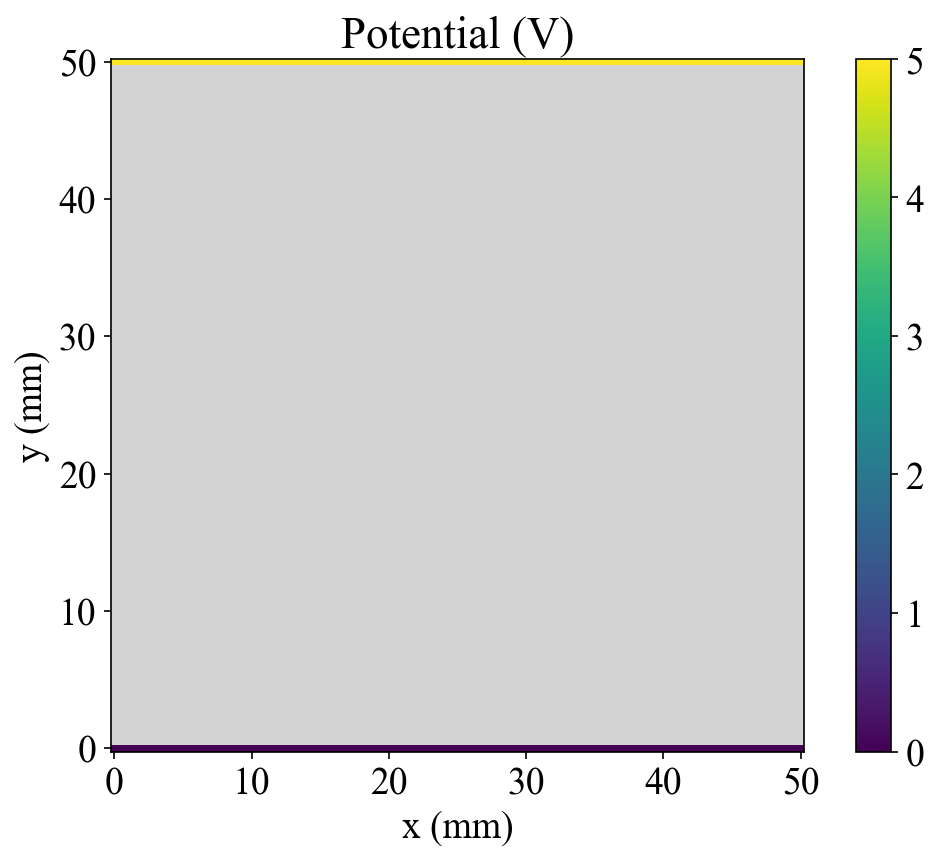
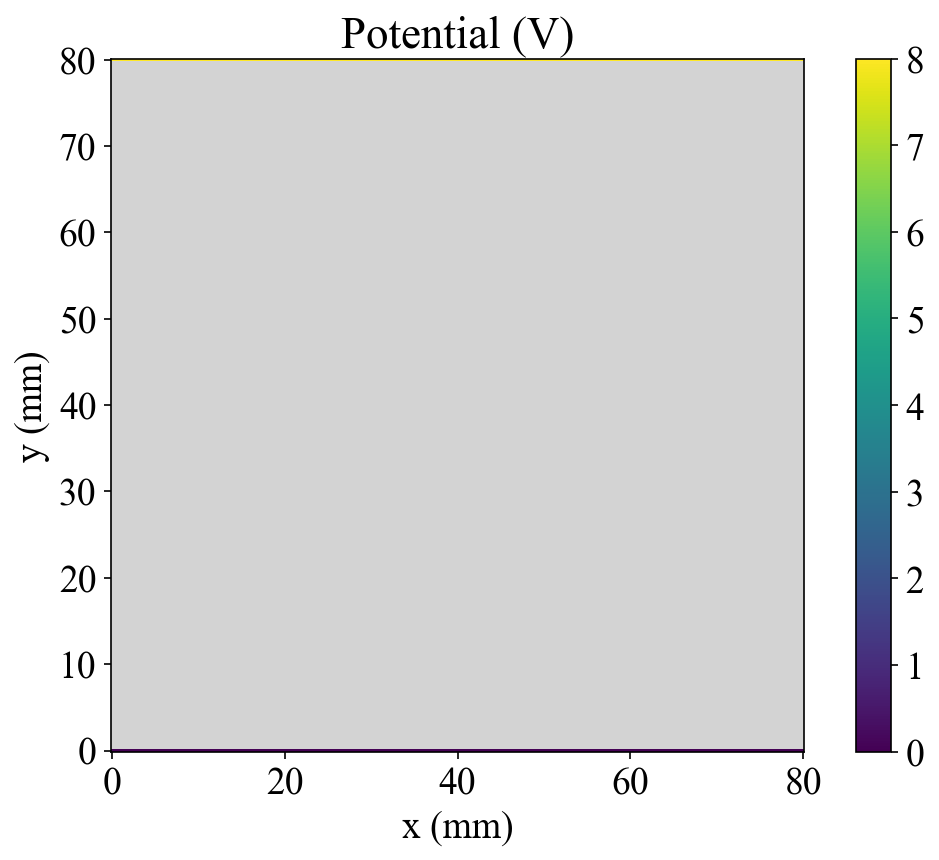
field and charge

diff --git a/project1/functions.py b/project1/functions.py
@@ -23,6 +23,9 @@ class Geometry:
         # Kept only so plot_geometry can draw the objects.
         self.rectangles = []
 
+        # One True/False array per conductor, same shape as potential.
+        self.masks = {}
+
     # ---- Boundary conditions ----
     def min_y_bc(self, voltage):
         """Potential on the bottom boundary."""
@@ -47,6 +50,7 @@ class Geometry:
         inside = ((self.X >= x_left - tol) & (self.X <= x_right + tol)
                   & (self.Y >= y_bottom - tol) & (self.Y <= y_top + tol))
         self.potential[inside] = voltage
+        self.masks[name] = inside              # remember which nodes are this conductor
 
         self.rectangles.append({
             "name": name,
@@ -157,6 +161,47 @@ class Geometry:
         phi = self.potential.copy()        # fixed nodes already have their voltage
         phi[self.unknown] = V              # put the unknowns back on the map
         return phi        
+    def boundary_charge(self, phi, row):
+        """Charge per unit depth (C/m) on the base (row=0) or top (row=-1) boundary.
+
+        Same link sum as charge(), but the end nodes (on the side walls)
+        only own half a cell, so they count half.
+        """
+        eps0 = 8.8541878128e-12
+        inside = 1 if row == 0 else -2          # the row of nodes just inside the domain
+        weights = np.ones(phi.shape[1])
+        weights[0] = weights[-1] = 0.5
+        return eps0 * np.sum(weights * (phi[row, :] - phi[inside, :]))
+
+    # ---- Electric field ----
+    def electric_field(self, phi):
+        """E = -grad(V). Returns Ex, Ey in V/m (NaN inside the conductors)."""
+        dV_dy, dV_dx = np.gradient(phi, self.dy, self.dx)
+        Ex, Ey = -dV_dx, -dV_dy
+
+        conductor = self.fixed.copy()
+        conductor[0, :] = False        # base and top rows are boundaries,
+        conductor[-1, :] = False       # not conductors
+        Ex[conductor] = np.nan
+        Ey[conductor] = np.nan
+        return Ex, Ey
+
+    # ---- Charge ----
+    def charge(self, phi, name):
+        """Charge per unit depth (C/m) on the conductor `name`.
+
+        Square grid (dx = dy). Q/W = eps0 * sum of (V_conductor - V_neighbour)
+        over every link from a conductor node to a node outside it.
+        """
+        eps0 = 8.8541878128e-12
+        mask = self.masks[name]
+        total = 0.0
+        for j, i in zip(*np.nonzero(mask)):
+            for jn, i_n in ((j, i - 1), (j, i + 1), (j - 1, i), (j + 1, i)):
+                if not mask[jn, i_n]:                  # neighbour is outside the conductor
+                    total += phi[j, i] - phi[jn, i_n]
+        return eps0 * total
+
     # ---- Plots ----
     def plot_geometry(self):
         """Draw the domain, the conductors and the boundary conditions."""
@@ -212,6 +257,47 @@ class Geometry:
         ax.set_xlabel("x (mm)")
         ax.set_ylabel("y (mm)")
         ax.set_title("Potential (V)")
+
+        if filename:
+            fig.savefig(filename, dpi=150, bbox_inches="tight")
+        plt.show()
+
+    def plot_field(self, phi, xlim=None, ylim=None, filename=None):
+        """Plot |E| as colour, with field lines. xlim, ylim in millimetres."""
+        Ex, Ey = self.electric_field(phi)
+        magnitude = np.hypot(Ex, Ey)
+        E0 = self.potential[-1, 0] / self.Y[-1, 0]   # applied field, V/m
+
+        x = self.X[0, :] * 1000
+        y = self.Y[:, 0] * 1000
+
+        fig, ax = plt.subplots(figsize=(9, 6))
+        mesh = ax.pcolormesh(
+            x, y, np.ma.masked_invalid(magnitude), shading="nearest",
+            cmap="inferno", vmin=0, vmax=4 * E0,
+        )
+        fig.colorbar(mesh, ax=ax, label="|E| (V/m)")
+
+        ax.streamplot(
+            x, y, np.ma.masked_invalid(Ex), np.ma.masked_invalid(Ey),
+            color="white", density=2, linewidth=0.5, arrowsize=0.7,
+        )
+
+        for r in self.rectangles:
+            ax.add_patch(Rectangle(
+                (r["x_left"] * 1000, r["y_bottom"] * 1000),
+                r["width"] * 1000, r["height"] * 1000,
+                facecolor="lightgreen", edgecolor="black",
+            ))
+
+        if xlim:
+            ax.set_xlim(*xlim)
+        if ylim:
+            ax.set_ylim(*ylim)
+        ax.set_aspect("equal")
+        ax.set_xlabel("x (mm)")
+        ax.set_ylabel("y (mm)")
+        ax.set_title("Electric field")
 
         if filename:
             fig.savefig(filename, dpi=150, bbox_inches="tight")

diff --git a/project1/convergence.py b/project1/convergence.py
@@ -1,0 +1,88 @@
+"""
+Convergence check: how do Q1 and Q2 (shutter over Plate 1) change with
+domain size and grid spacing?  Stop trusting numbers that still move.
+"""
+
+import time
+import numpy as np
+import matplotlib.pyplot as plt
+from functions import Geometry
+
+plt.rcParams["font.family"] = "serif"
+plt.rcParams["font.serif"] = ["Times New Roman", "Times", "DejaVu Serif"]
+plt.rcParams["font.size"] = 18
+
+E0 = 100.0
+w_out = 50e-3
+
+
+def run_case(domain_width, domain_height, h):
+    """Solve one case and return (Q1, Q2) in coulombs."""
+    plate_length, plate_thickness, plate_height, plate_gap = 15e-3, 0.5e-3, 10e-3, 2e-3
+    yp0 = plate_height
+    yp1 = yp0 + plate_thickness
+    pair_length = 2 * plate_length + plate_gap
+    x0 = round(0.5 * (domain_width - pair_length) / h) * h
+    ys0 = yp1 + 2e-3
+    ys1 = ys0 + 0.5e-3
+
+    x = np.arange(round(domain_width / h) + 1) * h
+    y = np.arange(round(domain_height / h) + 1) * h
+    X, Y = np.meshgrid(x, y)
+
+    g = Geometry(X, Y)
+    g.min_y_bc(0.0)
+    g.max_y_bc(E0 * domain_height)
+    g.min_x_bc(0.0)
+    g.max_x_bc(0.0)
+    g.add_conductor("Plate 1", x0, x0 + plate_length, yp0, yp1)
+    g.add_conductor("Plate 2", x0 + plate_length + plate_gap, x0 + pair_length, yp0, yp1)
+    g.add_conductor("Shutter", x0, x0 + plate_length, ys0, ys1)
+    g.number_unknowns()
+    phi = g.solve()
+    return (g.charge(phi, "Plate 1") * w_out,
+            g.charge(phi, "Plate 2") * w_out)
+
+
+# ---- Study 1: domain size (square box), grid fixed at 0.5 mm ----
+sizes = [40, 50, 60, 80, 100, 120, 160]
+domain = []
+for size in sizes:
+    t0 = time.time()
+    domain.append(run_case(size * 1e-3, size * 1e-3, 0.5e-3))
+    print(f"domain {size:4d} x {size:<4d} mm   Q1 = {domain[-1][0]:.4e} C   Q2 = {domain[-1][1]:.4e} C   ({time.time() - t0:.1f} s)")
+domain = np.array(domain)
+
+# ---- Study 2: grid spacing, domain fixed at 80 x 80 mm ----
+steps = [1.0, 0.5, 0.25, 0.125]
+grid = []
+for h in steps:
+    t0 = time.time()
+    grid.append(run_case(80e-3, 80e-3, h * 1e-3))
+    print(f"grid {h:5.3f} mm         Q1 = {grid[-1][0]:.4e} C   Q2 = {grid[-1][1]:.4e} C   ({time.time() - t0:.1f} s)")
+grid = np.array(grid)
+
+# ---- Change in the calculated charge between one case and the previous one ----
+def change(Q):
+    """Percent change of each case relative to the case before it."""
+    return 100 * np.abs((Q[1:] - Q[:-1]) / Q[1:])
+
+# ---- Plot ----
+fig, (ax1, ax2) = plt.subplots(1, 2, figsize=(12, 5))
+
+ax1.plot(sizes[1:], change(domain[:, 0]), "o-", label="Plate 1")
+ax1.plot(sizes[1:], change(domain[:, 1]), "o-", label="Plate 2")
+ax1.set_xlabel("Domain size (mm)")
+ax1.set_ylabel("Change in Q from previous case (%)")
+ax1.set_title("step size = 0.5 mm")
+ax1.legend()
+
+ax2.plot(steps[1:], change(grid[:, 0]), "o-", label="Plate 1")
+ax2.plot(steps[1:], change(grid[:, 1]), "o-", label="Plate 2")
+ax2.set_xlabel("Grid spacing (mm)")
+ax2.set_title("Domain 80 x 80 mm")
+ax2.legend()
+
+fig.tight_layout()
+fig.savefig("convergence.png", dpi=150, bbox_inches="tight")
+plt.show()

diff --git a/project1/run.py b/project1/run.py
@@ -10,8 +10,8 @@ import matplotlib.pyplot as plt
 
 
 # Grid spacing
-dx = 0.5e-3  # 0.5 mm
-dy = 0.5e-3  # 0.5 mm
+dx = 0.25e-3  # 0.25 mm
+dy = 0.25e-3  # 0.25 mm
 
 # Physical and electrical parameters
 E0 = 100.0  # V/m
@@ -20,8 +20,8 @@ Rf = 1e6  # ohm
 v = 1e-3  # m/s
 
 # Domain size
-domain_width = 50e-3  # 50 mm
-domain_height = 50e-3  # 50 mm
+domain_width = 80e-3  # 80 mm
+domain_height = 80e-3  # 80 mm
 
 # Sensing plates
 plate_length = 15e-3
@@ -107,3 +107,25 @@ geometry.plot_geometry()
 geometry.plot_potential(filename="potential_with_geo.png")
 phi = geometry.solve()
 geometry.plot_potential(phi, filename="potential_solved.png")
+
+# Electric field from the solved potential, zoomed on the plates
+Ex, Ey = geometry.electric_field(phi)
+geometry.plot_field(phi, xlim=(0, 50), ylim=(0, 25), filename="field.png")
+
+# Check: how many nodes does each conductor own?
+for name, mask in geometry.masks.items():
+    print(name, mask.sum(), "nodes")
+
+# Charge on each conductor (per unit depth, times the plate depth w_out)
+eps0 = 8.8541878128e-12
+Q_ideal = eps0 * E0 * w_out * plate_length
+for name in geometry.masks:
+    Q = geometry.charge(phi, name) * w_out
+    print(f"{name}: Q = {Q:.3e} C   ({Q / Q_ideal:.2f} x ideal)")
+
+# Neutrality check: all charges together must add up to zero
+Q_base = geometry.boundary_charge(phi, 0) * w_out
+Q_top = geometry.boundary_charge(phi, -1) * w_out
+Q_all = sum(geometry.charge(phi, name) for name in geometry.masks) * w_out
+print(f"Base: {Q_base:.3e} C   Top: {Q_top:.3e} C")
+print(f"Sum of everything: {Q_all + Q_base + Q_top:.3e} C")
